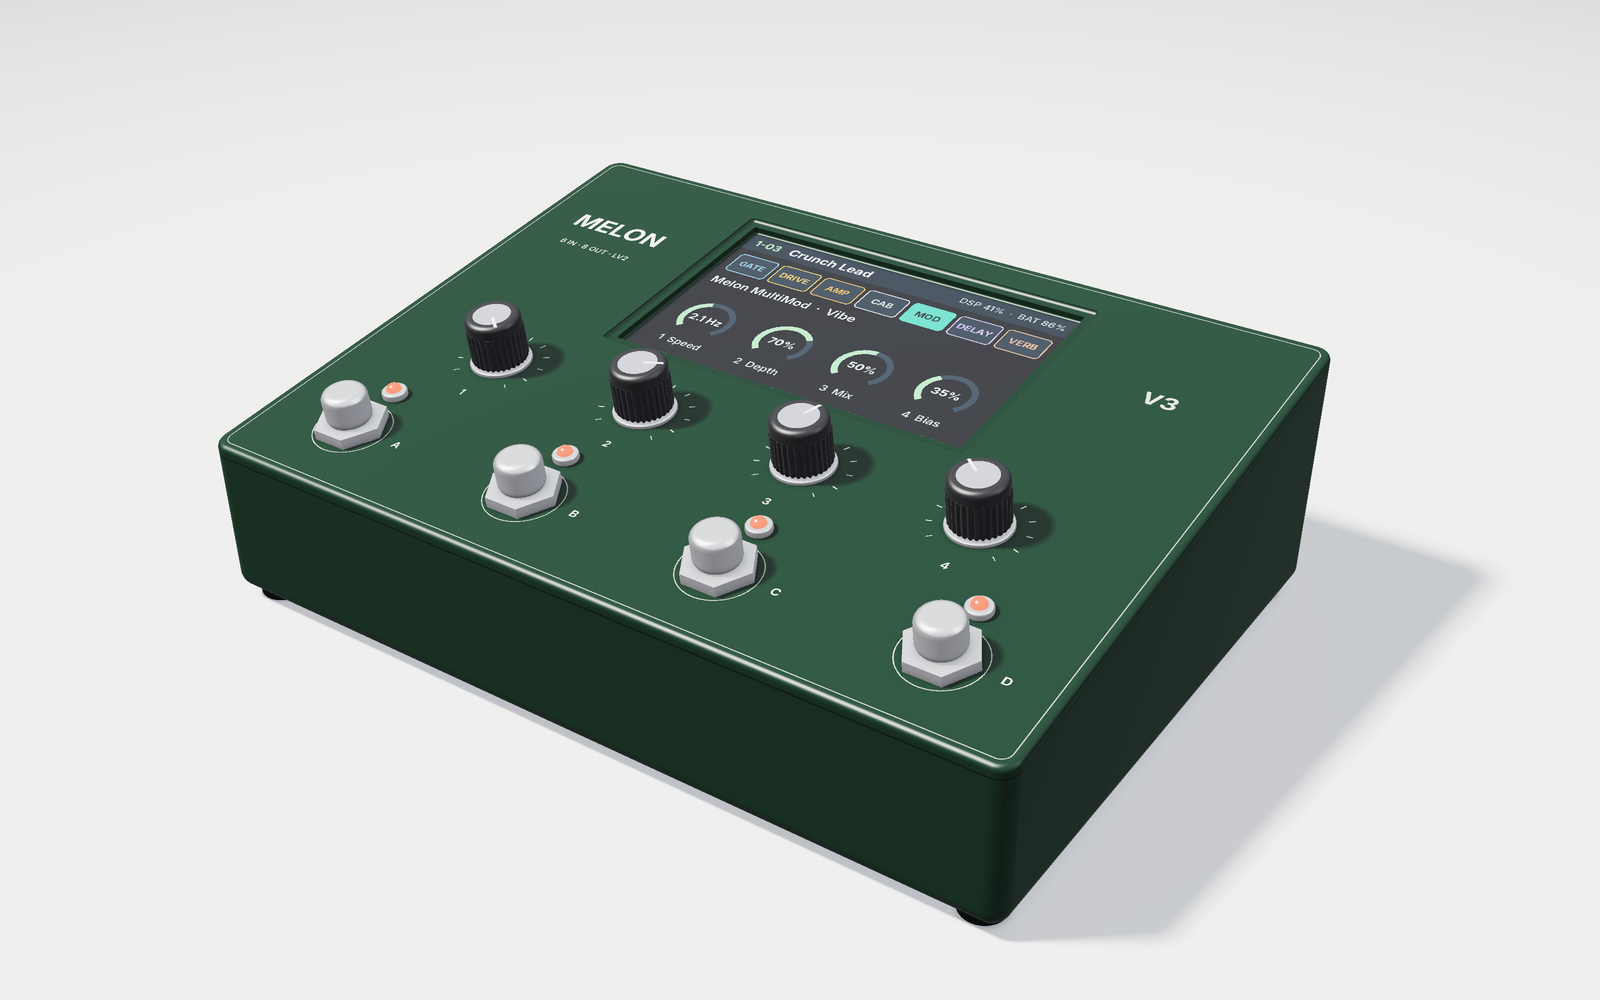
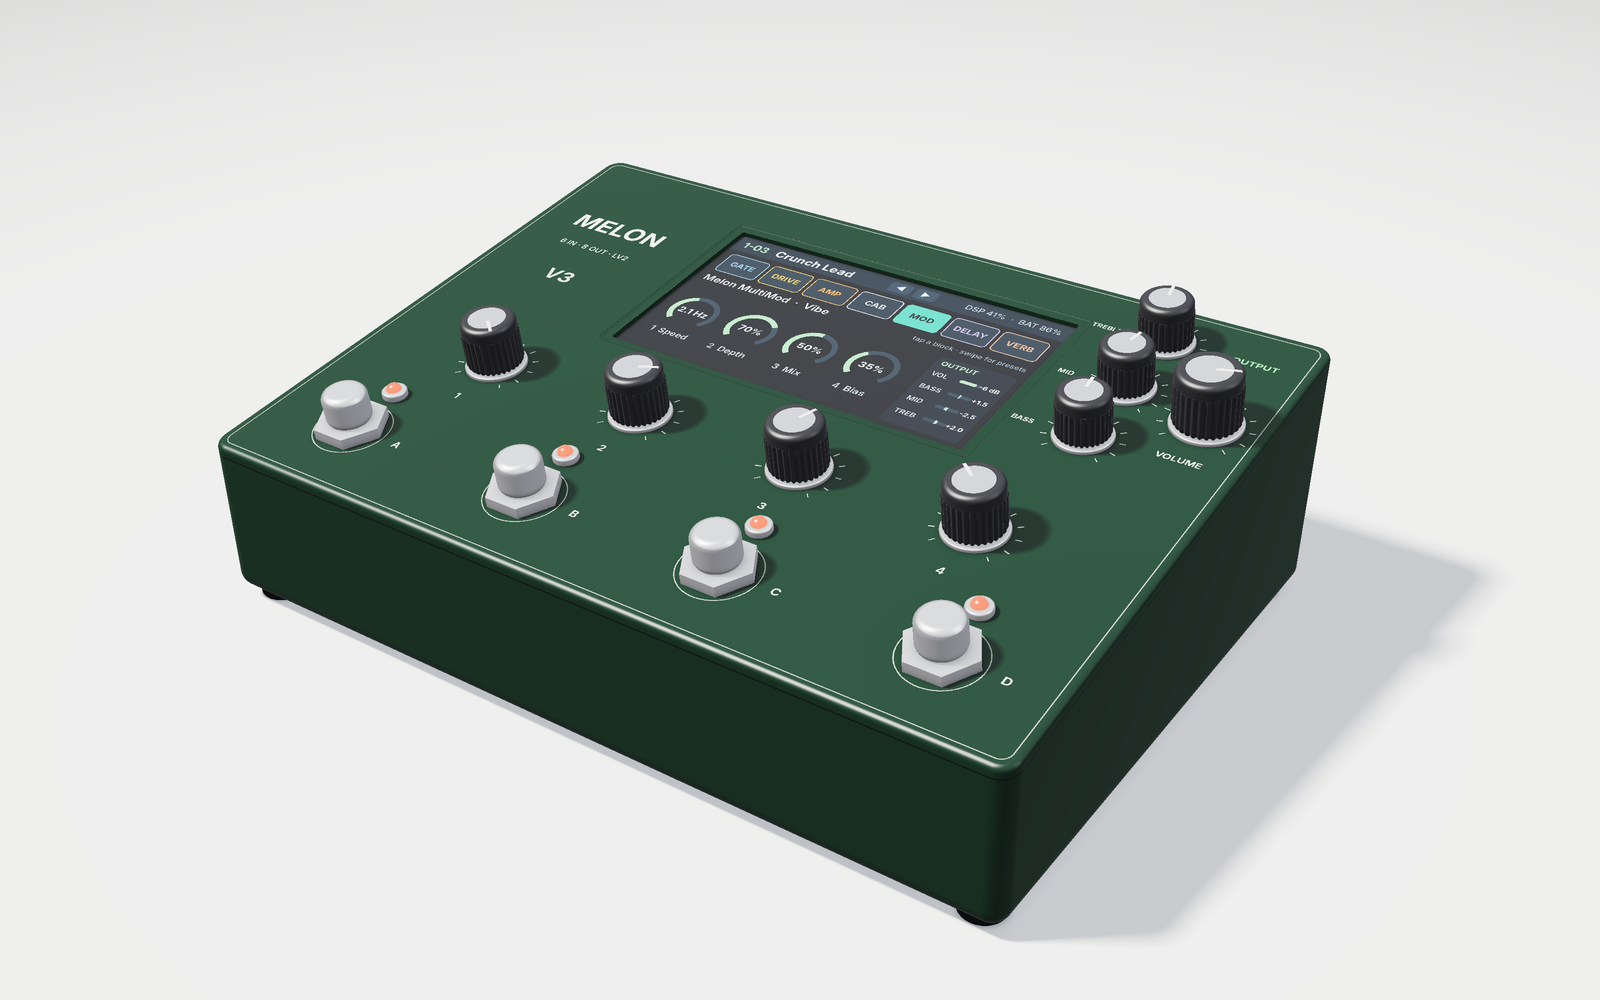
V3: output section (volume + bass/mid/treble pots) and 5" touch screen (Pi Touch Display 2)
- four pots right of the screen read by a second ADS1115; EQ + volume done in a DSP output stage
- Raspberry Pi Touch Display 2 5" (DSI, capacitive, 1280x720 landscape) with a chamfered window
- renders regenerated; product-versions and home README updated

Claude-Session: https://claude.ai/code/session_01ECLxpAKN3sxNJa1vdSt4CW

Changed region(s): [[0.375, 0.217, 0.8125, 0.558], [0.2812, 0.31, 0.3438, 0.403]]

diff --git a/hardware/enclosure/v3-floor/render_v3.py b/hardware/enclosure/v3-floor/render_v3.py
@@ -1,4 +1,4 @@
-"""Concept render of the Melon Pedal V3 floor unit (5" screen, 4 footswitches, 6 in / 8 out, battery).
+"""Concept render of the Melon Pedal V3 floor unit (5" touch screen, 4 footswitches, output section, 6 in / 8 out, battery).
 
 Adapted from hifiberry-wedge/render_concept.py. Sizes are a first estimate (docs/product-versions.md).
 
@@ -65,13 +65,21 @@ def to_flat(p):
     return q
 
 
-KNOBS = [flat((x, -20.0)) for x in (-75.0, -25.0, 25.0, 75.0)]
+KNOBS = [flat((x, -22.0)) for x in (-75.0, -25.0, 25.0, 75.0)]       # encoders 1-4 (edit the screen)
+# output section right of the screen: pots, absolute position (x, y, cap radius, label, pointer angle)
+OUT_KNOBS = [(flat((80.0, 68.0)), 7.0, "TREBLE", 100), (flat((80.0, 45.0)), 7.0, "MID", 80),
+             (flat((80.0, 22.0)), 7.0, "BASS", 95), (flat((104.5, 40.0)), 8.5, "VOLUME", 20)]
+ALL_KNOBS = [(k, 7.6, a) for k, a in zip(KNOBS, (-40, 25, 70, 140))] + [(k, r, a) for k, r, _, a in OUT_KNOBS]
 FOOTS = [flat((x, -62.0)) for x in (-90.0, -30.0, 30.0, 90.0)]
 LEDS = [flat((x, -46.0)) for x in (-90.0, -30.0, 30.0, 90.0)]
-LCD_C = flat((0.0, 38.0))         # 5" window centre (flat frame)
-LCD_HALF = (58.0, 36.5)           # bezel recess half size
-WIN_HALF = (55.0, 33.5)           # window half size
-GLASS_HALF = (54.2, 32.6)         # active area half size (108.4 x 65.1)
+# Raspberry Pi Touch Display 2, 5": outline 143.5 x 91.5 x 16 mm (under the lid), viewing area 111.5 x 63,
+# active 110.4 x 62.1, 720 x 1280 used in landscape. Glass close to the surface so a finger reaches the edges.
+LCD_C = flat((0.0, 35.0))         # window centre (flat frame)
+PANEL_HALF = (71.75, 45.75)       # module outline (inside, for clearance only)
+LCD_HALF = (59.0, 34.5)           # 1 mm chamfered recess around the window
+WIN_HALF = (55.75, 31.5)          # window = viewing area
+GLASS_HALF = (55.2, 31.05)        # active area half size
+GLASS_Z = -1.6                    # glass surface below the top
 # back panel, two rows: (x, height above the bottom, kind, label). x as seen by the player (left = -x)
 ROW_LO, ROW_HI = 16.0, 47.0
 JACKS = [
@@ -142,7 +150,8 @@ def body_sdf(p, pf):
     box = sd_round_box(p, (0, 0, Z0 + (H + 10) / 2), (HW, HL, (H + 10) / 2), 5.0)   # taller: the slope cuts the top
     d = round_intersect(box, pf[:, 2] - ZT, 1.5)          # sloped top, softly rounded edge
     # LCD bezel recess + window
-    rec = sd_round_box(pf, (LCD_C[0], LCD_C[1], ZT), (LCD_HALF[0], LCD_HALF[1], 1.0), 1.5)
+    taper = np.clip(ZT - pf[:, 2], 0.0, 1.0) * 2.5               # 1 mm deep, sides slope 2.5 mm inwards
+    rec = sd_round_box(pf, (LCD_C[0], LCD_C[1], ZT), (LCD_HALF[0], LCD_HALF[1], 1.0), 1.5) + taper
     win = sd_round_box(pf, (LCD_C[0], LCD_C[1], ZT), (WIN_HALF[0], WIN_HALF[1], 3.0), 0.8)
     d = np.maximum(d, -np.minimum(rec, win))
     # vertical vent slots on the left wall
@@ -165,8 +174,8 @@ def scene(p, want_mat=False):
         metal = m1 if metal is None else np.minimum(metal, m1)
     for lx, ly in LEDS:
         metal = np.minimum(metal, sd_cyl(p, (lx, ly, ZT), 2, 3.4, 2.2, 0.6))
-    for kx, ky in KNOBS:
-        metal = np.minimum(metal, sd_cyl(p, (kx, ky, ZT), 2, 8.5, 1.2, 0.4))
+    for (kx, ky), r, _ in ALL_KNOBS:
+        metal = np.minimum(metal, sd_cyl(p, (kx, ky, ZT), 2, r + 0.9, 1.2, 0.4))
     p = p_world
     hole = None
     for x, jz, kind, _ in JACKS:
@@ -189,15 +198,16 @@ def scene(p, want_mat=False):
     p = pf
     # knobs (black, knurled skirt)
     knob = None
-    for kx, ky in KNOBS:
+    for (kx, ky), r, _ in ALL_KNOBS:
         u, v = p[:, 0] - kx, p[:, 1] - ky
         ang = np.arctan2(v, u)
-        knurl = 0.22 * np.cos(30 * ang) * (p[:, 2] < ZT + 11.5)
-        kd = sd_cyl(p, (kx, ky, ZT + 1.2), 2, 7.6, 14.0, 1.6) + knurl
+        hk = 14.0 * r / 7.6
+        knurl = 0.22 * np.cos(30 * ang) * (p[:, 2] < ZT + hk - 2.5)
+        kd = sd_cyl(p, (kx, ky, ZT + 1.2), 2, r, hk, 1.6) + knurl
         knob = kd if knob is None else np.minimum(knob, kd)
     ds.append(knob)
     # LCD glass (under the window, behind the 3 mm lid)
-    ds.append(sd_round_box(p, (LCD_C[0], LCD_C[1], ZT - 3.3), (WIN_HALF[0] + 1.0, WIN_HALF[1] + 1.0, 0.3), 0.4))
+    ds.append(sd_round_box(p, (LCD_C[0], LCD_C[1], ZT + GLASS_Z - 0.3), (WIN_HALF[0] + 1.0, WIN_HALF[1] + 1.0, 0.3), 0.4))
     # LED dome
     led = None
     for lx, ly in LEDS:
@@ -266,16 +276,30 @@ def make_top_texture():
     dr.text((cx, cy), "MELON", font=f_big, fill=cream, anchor="mm")
     cx, cy = xy(-90.0, 38.0 / CA)
     dr.text((cx, cy), "6 IN · 8 OUT · LV2", font=f_small, fill=CREAM + (200,), anchor="mm")
-    cx, cy = xy(90.0, 44.0 / CA)
+    cx, cy = xy(-90.0, 22.0 / CA)
     dr.text((cx, cy), "V3", font=font("Bold", int(7.0 * TEX_PX)), fill=CREAM + (150,), anchor="mm")
     f_num = font("SemiBold", int(3.4 * TEX_PX))
-    for i, (kx, ky) in enumerate(KNOBS):
+    for (kx, ky), kr, _ in ALL_KNOBS:
         cx, cy = xy(kx, ky)
-        r = 11.5 * TEX_PX
+        r = (kr + 2.2) * TEX_PX
         for a in np.linspace(np.radians(-225), np.radians(45), 11):
             x0, y0 = cx + r * np.cos(a), cy + r * np.sin(a)
             x1, y1 = cx + (r + 1.6 * TEX_PX) * np.cos(a), cy + (r + 1.6 * TEX_PX) * np.sin(a)
             dr.line((x0, y0, x1, y1), fill=CREAM + (170,), width=int(0.45 * TEX_PX))
+    f_lab = font("SemiBold", int(2.9 * TEX_PX))
+    for (kx, ky), kr, label, _ in OUT_KNOBS:
+        if label == "VOLUME":
+            tx, ty = xy(kx, ky - kr - 7.5)
+        else:
+            tx, ty = xy(kx - kr - 10.0, ky)
+        dr.text((tx, ty), label, font=f_lab if label == "VOLUME" else font("SemiBold", int(2.4 * TEX_PX)),
+                fill=cream, anchor="mm")
+    # output section title
+    tx, ty = xy(104.5, 70.0)
+    dr.text((tx, ty), "OUTPUT", font=font("Bold", int(3.0 * TEX_PX)), fill=LABEL + (240,), anchor="mm")
+    for i, (kx, ky) in enumerate(KNOBS):
+        cx, cy = xy(kx, ky)
+        r = 11.5 * TEX_PX
         tx, ty = xy(kx, ky - 16.0)
         dr.text((tx, ty), str(i + 1), font=f_num, fill=cream, anchor="mm")
     for i, (fx, fy) in enumerate(FOOTS):
@@ -310,32 +334,54 @@ def make_side_texture():
 
 
 def make_screen_texture():
-    w, h = 800, 480
+    """1280 x 720 touch UI: big tiles to tap, the four encoder parameters, the output section."""
+    w, h = 1280, 720
     img = Image.new("RGB", (w, h), (8, 12, 18))
     dr = ImageDraw.Draw(img)
     accent = (0x7F, 0xD6, 0x8A)
-    dr.rectangle((0, 0, w, 58), fill=(22, 34, 44))
-    dr.text((20, 29), "1-03", font=font("Bold", 30), fill=accent, anchor="lm")
-    dr.text((110, 29), "Crunch Lead", font=font("Bold", 34), fill=(235, 240, 245), anchor="lm")
-    dr.text((w - 20, 29), "DSP 41%  ·  BAT 86%", font=font("Medium", 24), fill=(150, 170, 185), anchor="rm")
+    dr.rectangle((0, 0, w, 84), fill=(22, 34, 44))
+    dr.text((30, 42), "1-03", font=font("Bold", 46), fill=accent, anchor="lm")
+    dr.text((165, 42), "Crunch Lead", font=font("Bold", 50), fill=(235, 240, 245), anchor="lm")
+    for i, t in enumerate(("◀", "▶")):                       # preset prev / next touch buttons
+        x0 = 620 + i * 96
+        dr.rounded_rectangle((x0, 14, x0 + 80, 70), radius=12, fill=(34, 50, 62))
+        dr.text((x0 + 40, 42), t, font=font("Bold", 34), fill=(200, 215, 225), anchor="mm")
+    dr.text((w - 30, 42), "DSP 41%  ·  BAT 86%", font=font("Medium", 34), fill=(150, 170, 185), anchor="rm")
     blocks = [("GATE", (95, 149, 201)), ("DRIVE", (210, 146, 63)), ("AMP", (232, 120, 60)), ("CAB", (170, 178, 183)),
               ("MOD", (63, 176, 140)), ("DELAY", (154, 130, 214)), ("VERB", (208, 122, 90))]
-    bw = (w - 40 - 6 * 10) / 7
+    bw = (w - 60 - 6 * 14) / 7
     for i, (name, c) in enumerate(blocks):
-        x0 = 20 + i * (bw + 10)
+        x0 = 30 + i * (bw + 14)
         sel = i == 4
-        dr.rounded_rectangle((x0, 78, x0 + bw, 150), radius=10, fill=c if sel else (28, 40, 50),
-                             outline=c, width=3)
-        dr.text((x0 + bw / 2, 114), name, font=font("Bold", 24), fill=(10, 14, 18) if sel else c, anchor="mm")
-    dr.text((20, 190), "Melon MultiMod  ·  Vibe", font=font("SemiBold", 32), fill=(220, 228, 235), anchor="lm")
+        dr.rounded_rectangle((x0, 108, x0 + bw, 222), radius=16, fill=c if sel else (28, 40, 50), outline=c, width=4)
+        dr.text((x0 + bw / 2, 165), name, font=font("Bold", 36), fill=(10, 14, 18) if sel else c, anchor="mm")
+    dr.text((30, 270), "Melon MultiMod  ·  Vibe", font=font("SemiBold", 44), fill=(220, 228, 235), anchor="lm")
+    dr.text((w - 30, 270), "tap a block · swipe for presets", font=font("Medium", 28), fill=(110, 130, 145), anchor="rm")
     params = [("Speed", 0.42, "2.1 Hz"), ("Depth", 0.70, "70%"), ("Mix", 0.50, "50%"), ("Bias", 0.35, "35%")]
     for i, (name, val, txt) in enumerate(params):
-        x0 = 20 + i * 192
-        cx, cy, r = x0 + 86, 330, 62
-        dr.arc((cx - r, cy - r, cx + r, cy + r), 135, 405, fill=(35, 48, 58), width=14)
-        dr.arc((cx - r, cy - r, cx + r, cy + r), 135, 135 + 270 * val, fill=accent, width=14)
-        dr.text((cx, cy), txt, font=font("Bold", 28), fill=(235, 240, 245), anchor="mm")
-        dr.text((cx, cy + 92), f"{i + 1}  {name}", font=font("SemiBold", 26), fill=(170, 185, 195), anchor="mm")
+        cx, cy, r = 130 + i * 230, 470, 88
+        dr.arc((cx - r, cy - r, cx + r, cy + r), 135, 405, fill=(35, 48, 58), width=20)
+        dr.arc((cx - r, cy - r, cx + r, cy + r), 135, 135 + 270 * val, fill=accent, width=20)
+        dr.text((cx, cy), txt, font=font("Bold", 40), fill=(235, 240, 245), anchor="mm")
+        dr.text((cx, cy + 132), f"{i + 1}  {name}", font=font("SemiBold", 36), fill=(170, 185, 195), anchor="mm")
+    # output section (follows the four pots, read-only on screen)
+    x0 = 980
+    dr.rounded_rectangle((x0, 320, w - 30, 690), radius=16, fill=(18, 26, 34))
+    dr.text((x0 + 20, 352), "OUTPUT", font=font("Bold", 30), fill=accent, anchor="lm")
+    for j, (name, val, txt) in enumerate((("VOL", 0.72, "-6 dB"), ("BASS", 0.55, "+1.5"), ("MID", 0.40, "-2.5"),
+                                          ("TREB", 0.60, "+2.0"))):
+        y = 410 + j * 72
+        dr.text((x0 + 20, y), name, font=font("SemiBold", 28), fill=(170, 185, 195), anchor="lm")
+        bx0, bx1 = x0 + 118, x0 + 198
+        dr.rounded_rectangle((bx0, y - 7, bx1, y + 7), radius=7, fill=(35, 48, 58))
+        if j == 0:
+            dr.rounded_rectangle((bx0, y - 7, bx0 + (bx1 - bx0) * val, y + 7), radius=7, fill=accent)
+        else:                                                   # EQ: bipolar bar from the centre
+            mid = (bx0 + bx1) / 2
+            end = bx0 + (bx1 - bx0) * val
+            dr.rectangle((min(mid, end), y - 7, max(mid, end), y + 7), fill=accent)
+            dr.line((mid, y - 11, mid, y + 11), fill=(150, 170, 185), width=2)
+        dr.text((w - 45, y), txt, font=font("Bold", 26), fill=(235, 240, 245), anchor="rm")
     return np.asarray(img).astype(F) / 255
 
 
@@ -529,15 +575,15 @@ def shade(ro, rd, t, hit):
     topk = nrm[k, 2] > 0.85
     capc = np.zeros(pk.shape[0], bool)
     ptr = np.zeros(pk.shape[0], bool)
-    for i, (kx, ky) in enumerate(KNOBS):
+    for (kx, ky), kr, adeg in ALL_KNOBS:
         dx, dy = pk[:, 0] - kx, pk[:, 1] - ky
         rr = np.sqrt(dx * dx + dy * dy)
-        near = rr < 8
-        capc |= near & topk & (rr < 5.2)
-        ang = np.radians([-40, 25, 70, 140][i])
+        near = rr < kr + 0.4
+        capc |= near & topk & (rr < kr * 0.68)
+        ang = np.radians(adeg)
         along = dx * np.cos(ang) + dy * np.sin(ang)
         perp = -dx * np.sin(ang) + dy * np.cos(ang)
-        ptr |= near & topk & (np.abs(perp) < 0.45) & (along > 1.5) & (along < 6.8)
+        ptr |= near & topk & (np.abs(perp) < 0.45) & (along > 1.5) & (along < kr - 0.8)
     ki = np.where(k)[0]
     base[ki[capc]] = (0.30, 0.31, 0.33)
     refl[ki[capc]] = 0.35

diff --git a/docs/product-versions.md b/docs/product-versions.md
@@ -8,8 +8,8 @@ Three versions are planned, from the simplest to the most complete. Only V1 and 
 |---|---|---|---|
 | Size | 65 × 120 × 40 mm | 100 × 135 mm, 40 → 65 mm high | ≈ 240 × 170 mm, 45 → 70 mm (estimate) |
 | Audio | External USB interface (iOne, Zoom AMS-22/24, Audient Sono…) | HiFiBerry DAC2 ADC Pro + I/O board (buffers, relays, MIDI) | 6 in / 8 out multichannel board (option B), two balanced outputs |
-| Screen | 2.0" ST7789 | **2.8" ILI9341 320×240** (v0.5) | 5" 800×480 |
-| Controls | 4 encoders (2 × 2 at the back), 1 footswitch | 4 encoders (2 × 2 at the back), 1 footswitch | 4 encoders, 4 footswitches |
+| Screen | 2.0" ST7789 | **2.8" ILI9341 320×240** (v0.5) | **5" touch** (Raspberry Pi Touch Display 2, 1280×720) |
+| Controls | 4 encoders (2 × 2 at the back), 1 footswitch | 4 encoders (2 × 2 at the back), 1 footswitch | 4 encoders, 4 footswitches, **output section: Volume + Bass / Mid / Treble** |
 | Power | USB-C | 9 V pedal supply | 9 V supply **or battery** |
 | Pi | Pi 4 | Pi 4 | **Pi 5** (multichannel board, 5" screen) |
 | Docs | `04-poc-usb-interface.md`, `hardware/enclosure/usb-audio/` | `hardware-architecture.md`, `hardware/enclosure/hifiberry-wedge/` | this page |
@@ -33,8 +33,19 @@ Three versions are planned, from the simplest to the most complete. Only V1 and 
 - Not audio: 2 × expression pedal (I2C ADC), MIDI in/out, 9 V DC, USB-C for charging, optional USB-A for an external interface (the software already supports any class-compliant interface).
 - **Back panel:** about 14 connectors do not fit in one row on 240 mm: two rows (the back is ~70 mm tall), some on a side panel, or a slightly wider box.
 
+**Output section (2026-11-25):** four pots right of the screen: **VOLUME** and a three-band output EQ (**BASS, MID, TREBLE**). They are a master section like on an amp: they act on the whole pedal, after the effect chain, and do not change with presets.
+- **Pots, not encoders:** the knob position is always what you hear, also after a preset change or a reboot. 10 kΩ linear; the EQ pots with a centre detent (flat). Pi 5 has no analog inputs, so they are read by a **second ADS1115** (I2C 0x49; the first one at 0x48 reads EXP 1/2). That leaves 2 spare channels.
+- **Done in DSP, not with an analog tone stack:** there are 8 outputs, and one analog EQ + volume per output pair would mean lots of parts, noise and dual-gang pots. A small output stage after the chain does it: low shelf ~100 Hz, peaking mid ~800 Hz (Q 0.7), high shelf ~3.2 kHz, each ±12 dB, then volume (−∞ … +6 dB, audio taper in software). Smoothed to avoid zipper noise. Cost on the Pi 5: well under 1 % (3 biquads × 2 channels). Plan: a new "Melon Output" LV2 plugin in melon_plugins that melon-pedald always puts at the end of the chain; it is not shown as a normal block.
+- **Which outputs:** by default Amp L/R, Balanced (XLR + TRS) and Phones. Not the FX send (the loop must stay at unity) and not the tuner. A setting in the app per output: follows the master section / fixed.
+- **Screen and app:** they show the four values (read-only; the knob wins). Phones might get its own level later.
+
+**Touch screen (2026-11-25):** the **Raspberry Pi Touch Display 2, 5"** (official, DSI, capacitive 5-point touch, 720 × 1280 used in landscape, US$40, made until at least January 2030). Outline 143.5 × 91.5 × 16 mm, viewing area 111.5 × 63 mm. Power from the GPIO header, ribbon to the Pi 5's DSI port.
+- **Mounting:** the module sits under the lid; the window is the viewing area with a 1 mm chamfered recess, glass ~1.6 mm below the surface so a finger reaches the edges. It is at the back, away from the footswitches; the glass can break, so no boots on it. A 0.5 mm polycarbonate film over the window still works with capacitive touch.
+- **Use:** touch for browsing (tap a block, swipe presets, drag a value); the four encoders stay for precise edits and the footswitches for playing. Everything still works with touch disabled.
+- **Software:** melon-display today draws frames with Pillow and pushes them over SPI. For DSI it draws the same frames at 1280 × 720 to the screen through KMS/DRM (or SDL/pygame on KMSDRM), and reads touch with evdev (the touch controller shows up as a Linux input device). Hit areas map to the same actions as the encoders and the app (`melon_pedald` remote ops).
+
 **Battery:** 4 × 18650 (2S2P, ≈ 44 Wh, ≈ 5 h), in a bay with a hatch in the floor, away from the Pi's heat, with a proper 2S charger/protection module (USB-C) and a temperature sensor. A battery monitor on I2C shows % on the screen and app and shuts down cleanly when low. See [battery options](images/battery-options.png) for why a battery doesn't fit V2 without a bigger box.
 
 Concept renders: [`hardware/enclosure/v3-floor`](../hardware/enclosure/v3-floor/README.md).
 
-**Next:** confirm the screen size (assumed 121 × 76 mm module, 108 × 65 mm visible), the audio board, and the back-panel layout; then a first enclosure generator like V2's.
+**Next:** confirm the audio board and the back-panel layout, buy the Touch Display 2 to check the active area against its outline (the render assumes it is centred), then a first enclosure generator like V2's.

diff --git a/README.md b/README.md
@@ -15,8 +15,8 @@ Planned from the simplest to the most complete ([details](docs/product-versions.
 | Status | **Running** (software tested on the Pi 4) | Design ready (fit-check print) | Concept |
 | Size | 65 × 120 × 40 mm | 100 × 135 mm, 40 → 65 mm high | ≈ 240 × 170 mm, 45 → 70 mm |
 | Audio | Any class-compliant USB interface (tested: Audient Sono, Momix) | HiFiBerry DAC2 ADC Pro + own I/O board: Hi-Z buffers, relay true bypass, MIDI | 6 in / 8 out board: guitar, AUX (combo XLR/TRS), FX loop, amp outs, **balanced XLR + TRS outs**, headphones |
-| Screen | 2.0" ST7789 | 2.8" ILI9341 (320 × 240) | 5" 800 × 480 |
-| Controls | 4 knobs + 1 footswitch | 4 knobs + 1 footswitch | 4 knobs + 4 footswitches, 2 expression inputs |
+| Screen | 2.0" ST7789 | 2.8" ILI9341 (320 × 240) | 5" touch screen (Pi Touch Display 2, 1280 × 720) |
+| Controls | 4 knobs + 1 footswitch | 4 knobs + 1 footswitch | 4 knobs + 4 footswitches, output section (volume, bass, mid, treble), 2 expression inputs |
 | Power | USB-C | 9 V pedal supply | 9 V supply **or battery** (4 × 18650) |
 | Renders / CAD | [usb-audio](hardware/enclosure/usb-audio/README.md) | [hifiberry-wedge](hardware/enclosure/hifiberry-wedge/README.md) (printable STLs) | [v3-floor](hardware/enclosure/v3-floor/README.md) (renders only) |
 

diff --git a/hardware/enclosure/v3-floor/README.md b/hardware/enclosure/v3-floor/README.md
@@ -1,6 +1,6 @@
 # V3 floor unit: concept renders (2026-11-24)
 
-First look at the planned V3 (see [product versions](../../../docs/product-versions.md)): 5" 800×480 screen, four knobs, four footswitches (A–D) with LEDs, 6 in / 8 out audio board, battery. About 240 × 170 mm, 45 → 70 mm high. **Concept only:** no enclosure generator or STLs yet, and every size is an estimate.
+First look at the planned V3 (see [product versions](../../../docs/product-versions.md)): 5" touch screen (Raspberry Pi Touch Display 2), four encoders, an output section (VOLUME, BASS, MID, TREBLE pots, right of the screen), four footswitches (A–D) with LEDs, 6 in / 8 out audio board, battery. About 240 × 170 mm, 45 → 70 mm high. **Concept only:** no enclosure generator or STLs yet, and every size is an estimate.
 
 ![Hero](render-v3-hero.png)
 
